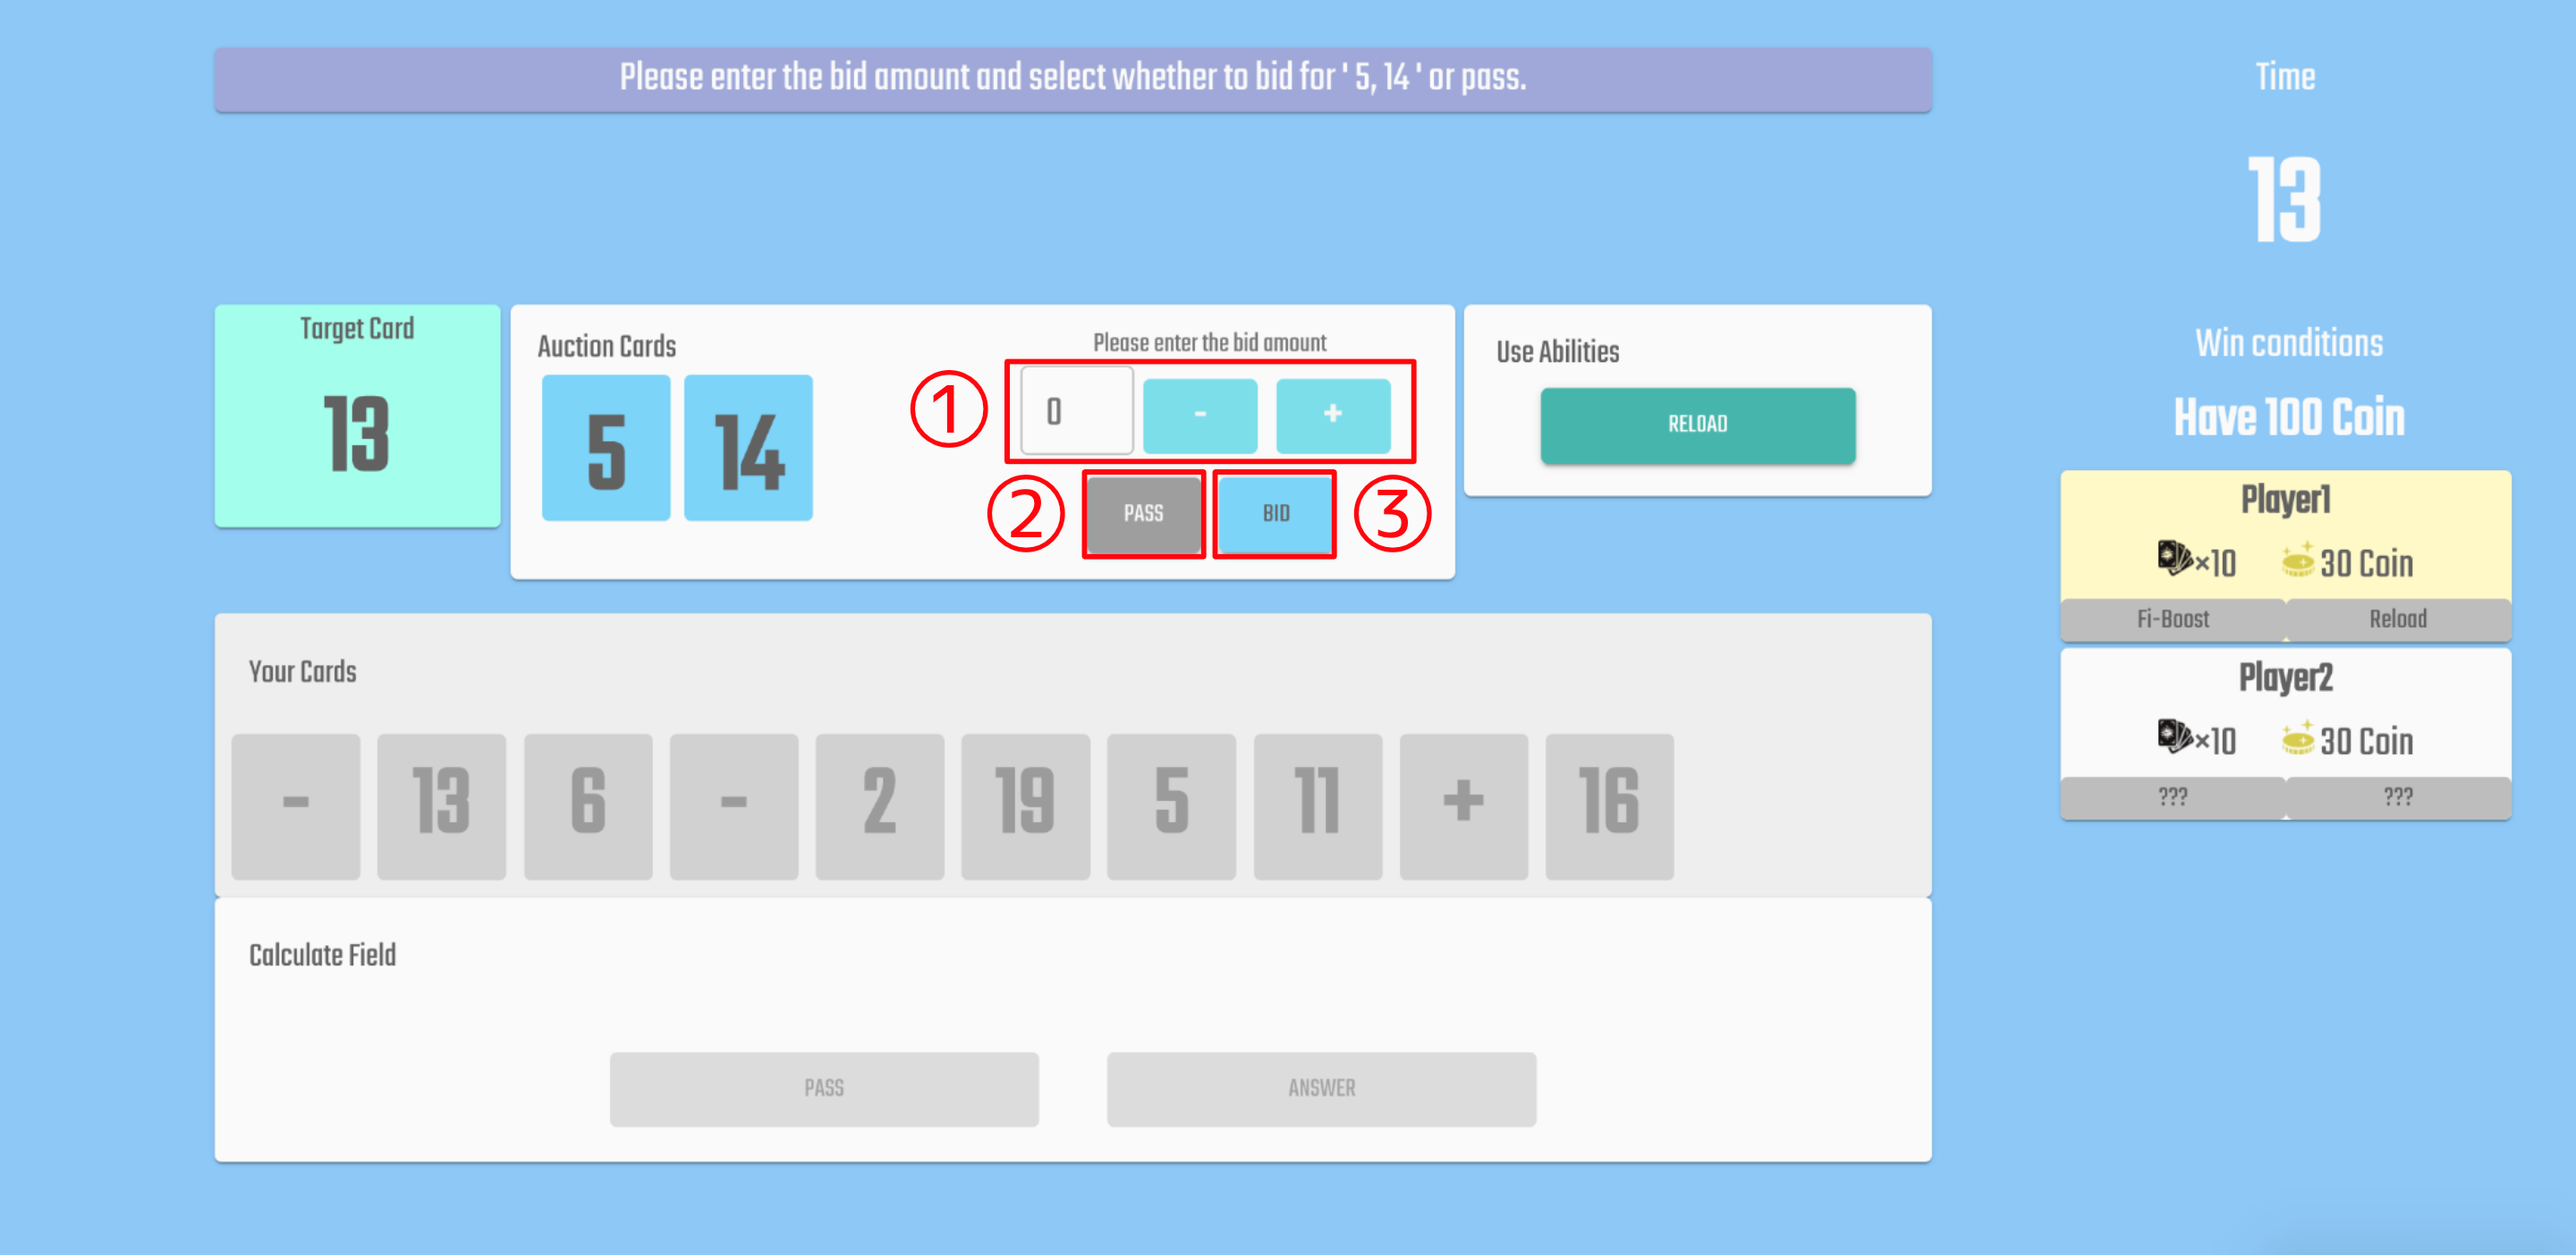
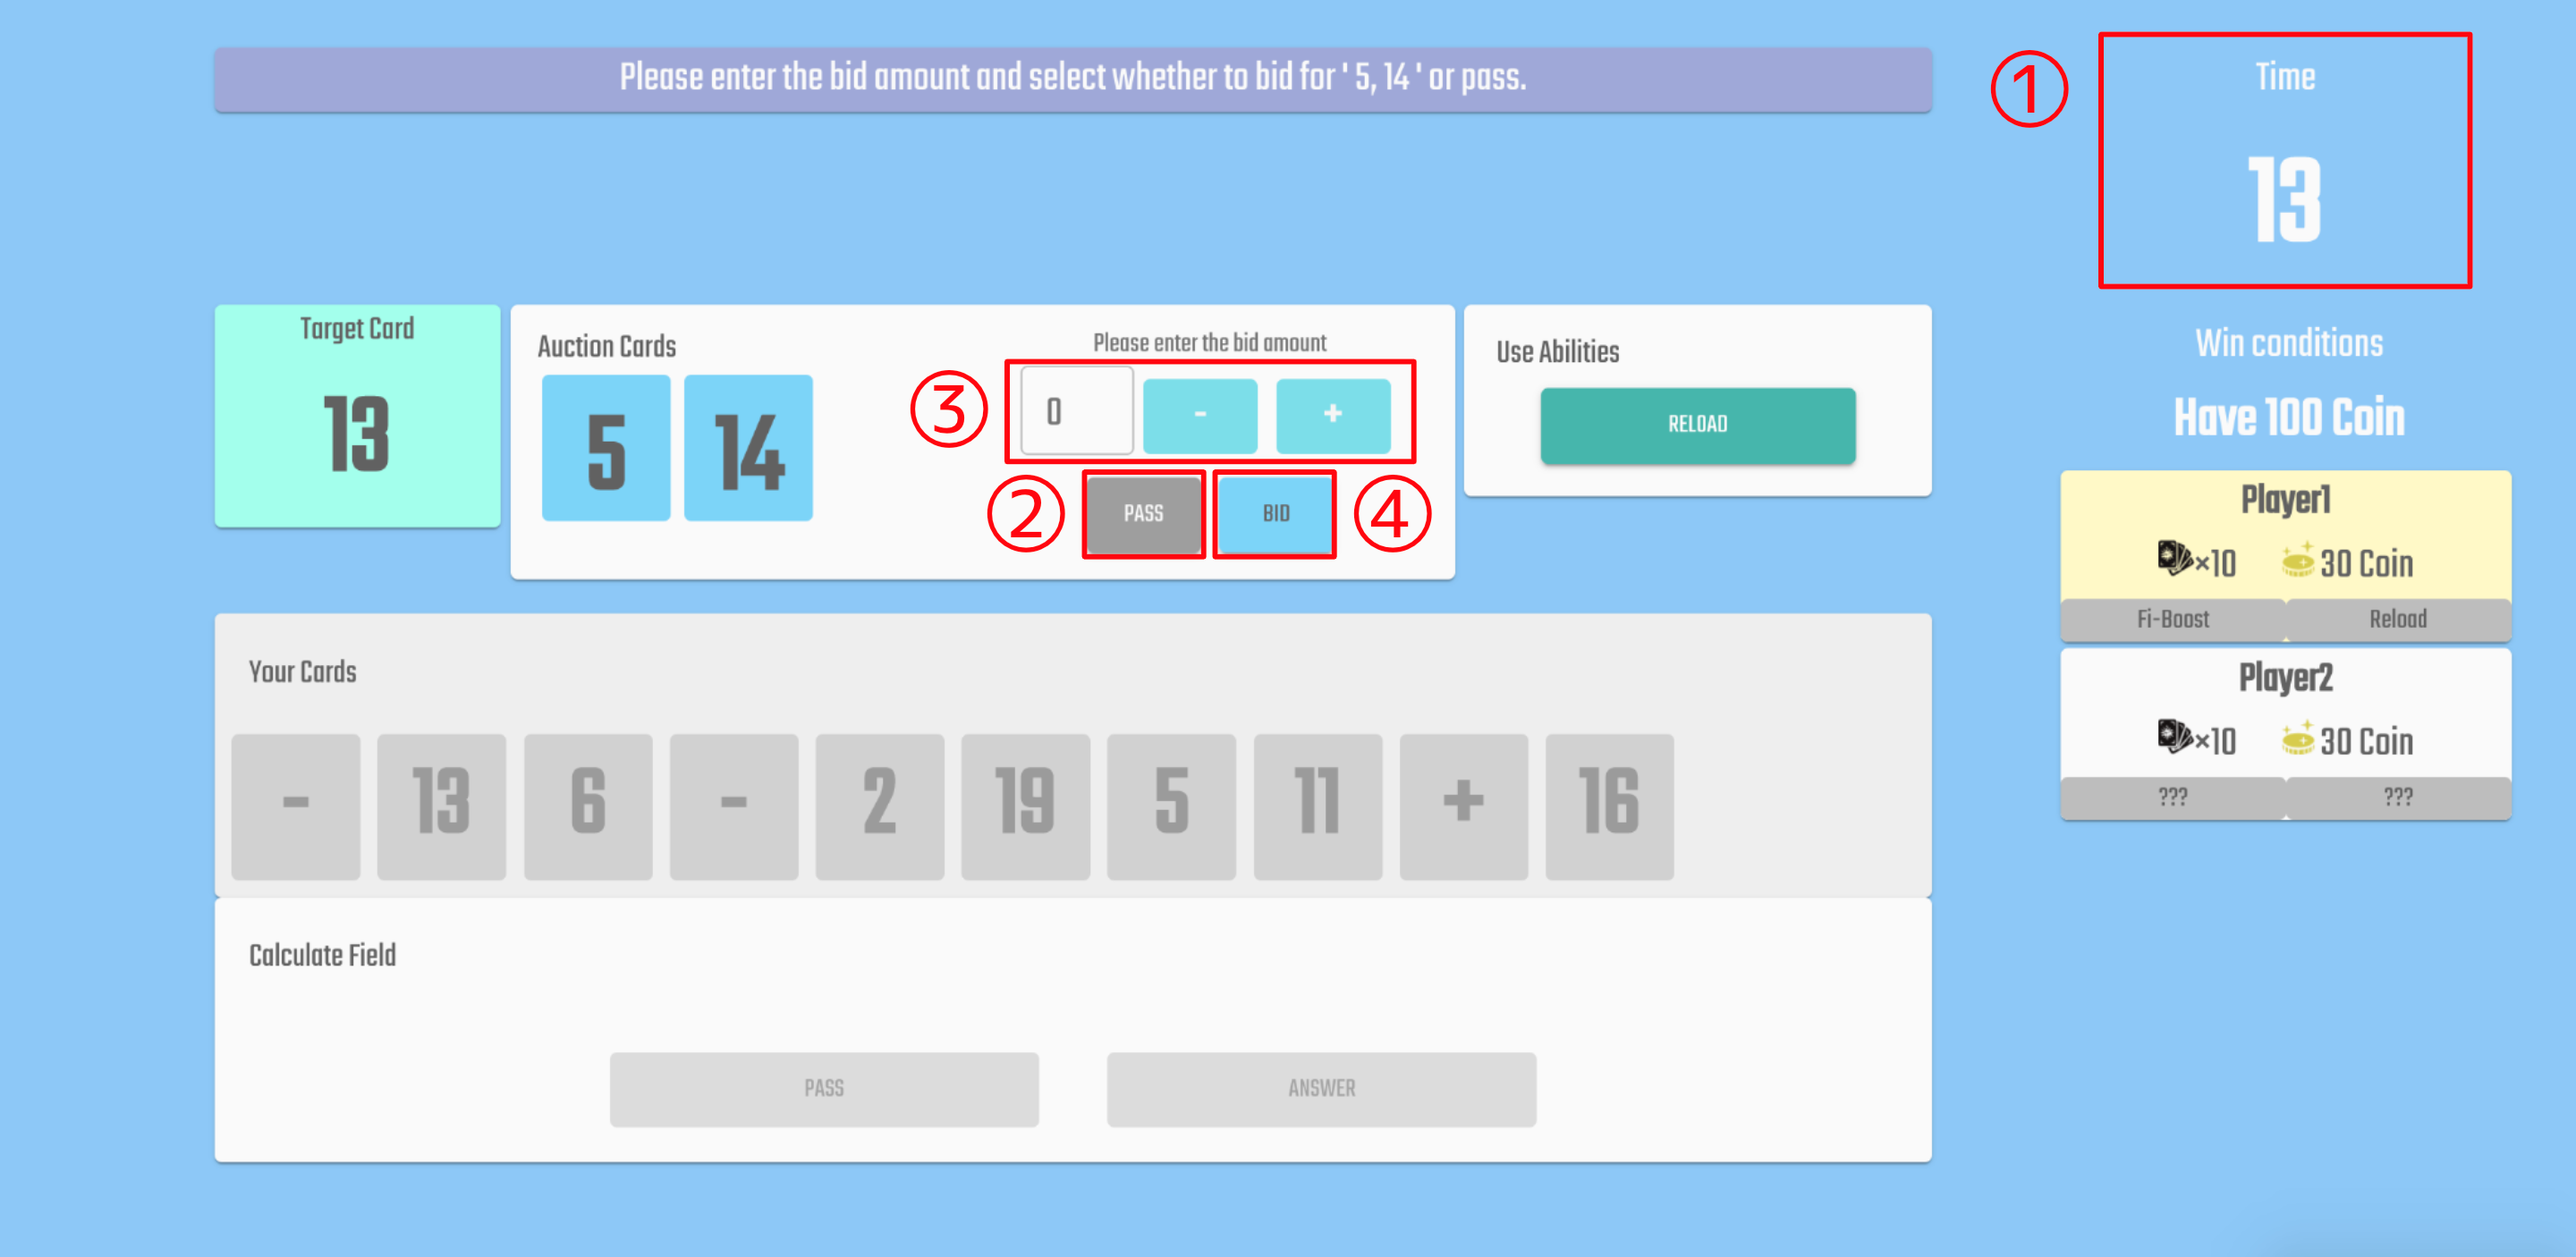
ロビーからトップ画面に戻れるように対応

diff --git a/numbuyer_front/src/constantsMsg.js b/numbuyer_front/src/constantsMsg.js
@@ -101,9 +101,10 @@ export const English = {
     AUCTION_PHASE_MSG1: "Publication of Auction Card",
     AUCTION_PHASE_MSG2: "After the Target Card is released, Auction Card will be released. In this Auction Phase, an auction will be held for all players and this Auction Card will be added to the hand of the winning bidder.",
     AUCTION_PHASE_MSG3: "How to bid or decline",
-    AUCTION_PHASE_MSG4: '①Rewrite this number as it is, or click the "+" button or "-" button to set the bid amount.',
+    AUCTION_PHASE_MSG4: "①The time remaining until the end of the auction is displayed here.",
     AUCTION_PHASE_MSG5: '②You can decline the auction this turn by clicking the "Pass" button.',
-    AUCTION_PHASE_MSG6: '③You can bid at the set bid amount by clicking the "Bid" button.',
+    AUCTION_PHASE_MSG6: '③Rewrite this number as it is, or click the "+" button or "-" button to set the bid amount.',
+    AUCTION_PHASE_MSG7: '④You can bid at the set bid amount by clicking the "Bid" button.',
 
     // エラーメッセージ
     NULL_NAME_ERR: "Please enter your name.", // 名前が未入力
@@ -259,9 +260,10 @@ export const Japanese = {
     AUCTION_PHASE_MSG1: "オークションカードの公開",
     AUCTION_PHASE_MSG2: "目標カードの公開後、オークションカードが公開されます。このオークションフェーズでは全プレイヤーでオークションが開かれ、落札した人の手札にこのオークションカードが加わります。",
     AUCTION_PHASE_MSG3: "入札または辞退の方法",
-    AUCTION_PHASE_MSG4: "①こちらの数字をそのまま書き換えるか「＋」ボタンか「ー」ボタンをクリックして入札金額を設定します。",
+    AUCTION_PHASE_MSG4: "①オークション終了までの残り時間がこちらに表示されます。",
     AUCTION_PHASE_MSG5: "②「パス」ボタンをクリックするとこのターンのオークションを辞退できます。",
-    AUCTION_PHASE_MSG6: "③「入札」ボタンをクリックすると設定した入札金額で入札できます。",
+    AUCTION_PHASE_MSG6: "③こちらの数字をそのまま書き換えるか「＋」ボタンか「ー」ボタンをクリックして入札金額を設定します。",
+    AUCTION_PHASE_MSG7: "④「入札」ボタンをクリックすると設定した入札金額で入札できます。",
 
     // エラーメッセージ
     NULL_NAME_ERR: '名前を入力してください。', // 名前が未入力
@@ -418,9 +420,10 @@ export const Chinese = {
     AUCTION_PHASE_MSG1: "拍卖卡的发布",
     AUCTION_PHASE_MSG2: "释放目标卡后，将释放拍卖卡。在此拍卖阶段，将为所有玩家举行一次拍卖，并将这张拍卖卡添加到中标者的手上。",
     AUCTION_PHASE_MSG3: "如何出价或拒绝",
-    AUCTION_PHASE_MSG4: "①按原样改写该数字，或单击“+”按钮或“-”按钮设置投标金额。",
+    AUCTION_PHASE_MSG4: "①此处显示距离拍卖结束的剩余时间。",
     AUCTION_PHASE_MSG5: "②您可以通过单击“通过”按钮在本回合拒绝拍卖。",
-    AUCTION_PHASE_MSG6: "③您可以通过点击“出价”按钮以设定的出价金额出价。",
+    AUCTION_PHASE_MSG6: "③按原样改写该数字，或单击“+”按钮或“-”按钮设置投标金额。",
+    AUCTION_PHASE_MSG7: "④您可以通过点击“出价”按钮以设定的出价金额出价。",
 
     // エラーメッセージ
     NULL_NAME_ERR: '请输入你的名字。', // 名前が未入力

diff --git a/numbuyer_front/src/Socket.js b/numbuyer_front/src/Socket.js
@@ -5,7 +5,7 @@ import { setPlayersAction, setCardsAction, setCoinAction, setPlayerIdAction, set
 import { setValidAction, setErrMsgAction, setErrMsgVarsAction, setAblErrMsgAction } from './redux/msg/actions';
 import { setPhaseAction, setPhaseTimesAction, setRemainingTimeAction, setTargetAction, setAuctionAction, setMessageAction,
  setAnsPlayersAction, setHighestAction, setAucBtnAction, setCalcBtnAction, setTimeAction, setGoalAction, setCalcResultAction,
-  setFinishGameAction, setAucResultAction, setTargetSkipAction, setRemTimeFlgAction, setAblMessagesAction, setHandsUpdateAction } from './redux/game/actions';
+  setFinishGameAction, setAucResultAction, setTargetSkipAction, setRemTimeFlgAction, setAblMessagesAction, setHandsUpdateAction, setLeaveLobbyAction } from './redux/game/actions';
 
  import { push } from 'connected-react-router';
 
@@ -215,8 +215,14 @@ export default function Socket(props) {
             console.log(msg);
             resObj = JSON.parse(msg);
             setPlayers(resObj.players).then(()=>{
-                dispatch(push('/Lobby'));
-                console.log("ロビー画面に移動しました");
+                if(selector.game.leaveLobbyFlg === false) {
+                    dispatch(push('/Lobby'));
+                    console.log("ロビー画面に移動しました");
+                }else {
+                    dispatch(push('/'));
+                    console.log("トップ画面に移動しました");
+                    dispatch(setLeaveLobbyAction(false));
+                }
             });
         });
 

diff --git a/numbuyer_front/src/templates/components/PlayerListComponent.jsx b/numbuyer_front/src/templates/components/PlayerListComponent.jsx
@@ -13,6 +13,7 @@ import IconButton      from '@mui/material/IconButton';
 import ContentCopyIcon from '@mui/icons-material/ContentCopy';
 import { setQuickAction } from '../../redux/room/actions';
 import { grey } from '@mui/material/colors';
+import { setLeaveLobbyAction } from '../../redux/game/actions';
 
 const PlayerListComponent = () => {
     const classes = useStyles();
@@ -56,10 +57,10 @@ const PlayerListComponent = () => {
                 <Grid container>
                     <Grid item xs={4}>
                         <BackButton size="large" variant="contained"
-                        onClick={() => {
-                            leaveLobby({roomId: selector.room.roomId, playerId: selector.players.player.playerId});
+                        onClick={async () => {
+                            dispatch(setLeaveLobbyAction(true));
+                            await leaveLobby({roomId: selector.room.roomId, playerId: selector.players.player.playerId});
                             dispatch(setQuickAction(false));
-                            dispatch(push('/'));
                         }}>{selector.msg.lang.BACK_BTN}</BackButton>
                     </Grid>
                     <Grid item xs={4} />

diff --git a/numbuyer_front/src/templates/components/TutorialComponent.jsx b/numbuyer_front/src/templates/components/TutorialComponent.jsx
@@ -392,6 +392,15 @@ const TutorialComponent = () => {
                                             selector.msg.lang.AUCTION_PHASE_MSG2
                                         ]}>
                                     </TutorialSectionComponent>
+                                    <TutorialSectionComponent
+                                        title={selector.msg.lang.AUCTION_PHASE_MSG3}
+                                        image={auction2}
+                                        texts={[
+                                            selector.msg.lang.AUCTION_PHASE_MSG4,
+                                            selector.msg.lang.AUCTION_PHASE_MSG5,
+                                            selector.msg.lang.AUCTION_PHASE_MSG6
+                                        ]}>
+                                    </TutorialSectionComponent>
                                 </div>
                                 :
                                 <div></div>

diff --git a/numbuyer_front/src/redux/store/initialState.js b/numbuyer_front/src/redux/store/initialState.js
@@ -68,6 +68,7 @@ const initialState = {
         aucResult: Constants.NONE, // 落札結果ステータス
         calcResult: Constants.NONE, // 計算結果ステータス
         firedAbilities: [], // 発動アビリティ配列
+        leaveLobbyFlg: false, // ロビー退出フラグ
         finishFlg: false, // ゲーム終了フラグ
         aucBtnFlg: true, // オークション関連ボタン押下可能フラグ
         calcBtnFlg: true, // 計算関連ボタン押下可能フラグ

diff --git a/numbuyer_front/src/redux/game/actions.js b/numbuyer_front/src/redux/game/actions.js
@@ -225,6 +225,17 @@ export const setFiredAbilitiesAction = (firedAbilitiesState) => {
     }
 }
 
+export const SET_LEAVE_LOBBY = "SET_LEAVE_LOBBY";
+
+export const setLeaveLobbyAction = (leaveLobbyState) => {
+    return {
+        type: "SET_LEAVE_LOBBY",
+        payload: {
+            leaveLobbyFlg: leaveLobbyState
+        }
+    }
+}
+
 export const SET_FINISH_GAME = "SET_FINISH_GAME";
 
 export const setFinishGameAction = (finishGameState) => {

diff --git a/numbuyer_front/src/redux/game/reducers.js b/numbuyer_front/src/redux/game/reducers.js
@@ -97,6 +97,9 @@ export const GameReducer = (state = initialState.game, action) => {
                 ...state,
                 ...action.payload
             }
+        case Actions.SET_LEAVE_LOBBY:
+            state.leaveLobbyFlg = action.payload.leaveLobbyFlg;
+            return state;
         case Actions.SET_FIRST_TURN:
             return {
                 ...state,

diff --git a/numbuyer_front/src/redux/game/selectors.js b/numbuyer_front/src/redux/game/selectors.js
@@ -102,6 +102,11 @@ export const getFiredAbilities = createSelector(
     state => state.firedAbilities
 )
 
+export const getLeaveLobbyFlg = createSelector(
+    [gameSelector],
+    state => state.leaveLobbyFlg
+)
+
 export const getFinishFlg = createSelector(
     [gameSelector],
     state => state.finishFlg
